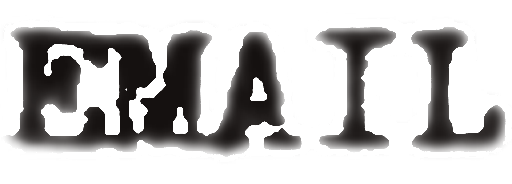
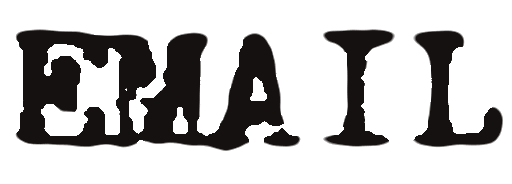
Fixed social link images and added spotify to artist pages

Changed region(s): [[0.0, 0.1359, 0.5938, 0.8696], [0.5938, 0.1359, 1.0, 0.8424], [0.1562, 0.3261, 0.2188, 0.3804]]

diff --git a/assets/js/views.js b/assets/js/views.js
@@ -71,12 +71,13 @@ export function socialRowHTML(items) {
 }
 
 export function artistSocialsHTML(a) {
-  const order = ['site', 'youtube', 'instagram', 'facebook', 'x', 'tiktok'];
+  const order = ['site', 'youtube', 'spotify', 'instagram', 'facebook', 'x', 'tiktok'];
   // "Site", not "Website" — the stamped art reads SITE (as it did on the old
   // site), and the label is what the alt text says.
   const labels = {
     site: 'Site',
     youtube: 'YouTube',
+    spotify: 'Spotify',
     instagram: 'Instagram',
     facebook: 'Facebook',
     x: 'X',

diff --git a/assets/js/config.js b/assets/js/config.js
@@ -193,6 +193,7 @@ export async function hydrateFromRemote() {
       const links = {};
       if (remote.site) links.site = remote.site;
       if (remote.youtube) links.youtube = remote.youtube;
+      if (remote.spotify) links.spotify = remote.spotify;
       if (remote.instagram) links.instagram = remote.instagram;
       if (remote.facebook) links.facebook = remote.facebook;
       if (remote.twitter) links.x = remote.twitter;

diff --git a/tools/bake_typewriter.py b/tools/bake_typewriter.py
@@ -78,11 +78,17 @@ IMAGES = [
 # what the threshold cuts through, so the resulting outline lands on a much
 # finer grid.
 UPSCALE = {
-    # The EMAIL wordmark comes in at the same 46px height as the other social art,
-    # which is only ~4x the size it's drawn at — enough to soften on a retina
-    # screen. It's the one of that set that gets the treatment because it's also
-    # the newest scan; the rest are left alone rather than re-cut.
+    # The whole social set comes in at 46px tall, only ~4x the size it's drawn at
+    # — enough to soften on a retina screen. 4x puts them at 184px, which is also
+    # where the (natively much larger) SPOTIFY scan lands, so the row is built at
+    # one resolution throughout.
     "assets/img/social/email.png": 4,
+    "assets/img/social/youtube.png": 4,
+    "assets/img/social/instagram.png": 4,
+    "assets/img/social/facebook.png": 4,
+    "assets/img/social/tiktok.png": 4,
+    "assets/img/social/site.png": 4,
+    "assets/img/social/x.png": 4,
     "assets/img/icons/light_on.png": 4,
     "assets/img/icons/light_off.png": 4,
     "assets/img/icons/sound_on.png": 4,
@@ -101,6 +107,31 @@ CROP = {
     "assets/img/icons/sound_on.png": (0.85, "centre"),
     "assets/img/icons/sound_off.png": (0.85, "centre"),
     "assets/img/icons/hamburger.png": (0.90, "centre"),
+}
+
+
+# Steepen the ALPHA ramp about its 50% contour (same linear-clamp maths as the
+# grey threshold, applied to the matte instead).
+#
+# The social scans arrived already keyed to transparency, and keyed softly: 50-64%
+# of their pixels sit at a partial alpha, only 2-9% are fully opaque. Because the
+# bake computes `alpha = (1 - t) * a`, that soft matte survives everything the
+# grey threshold does — the ink under it is dark, so `t` is 0 and the result is
+# just the blurry matte, recoloured. Thresholding harder can't help: the edge
+# isn't in the grey channel at all. Steepening the matte is what actually cuts it,
+# and pivoting at 0.5 keeps the 50% contour — so the stroke weight doesn't move.
+#
+# Only the 46px social art needs this. The brand/nav scans are natively 600-1700px
+# and come in at 13-28% soft; home_transparent is 0%. Hardening those would cost
+# the typewriter grain for no gain, so they're left alone.
+ALPHA_SHARPEN = {
+    "assets/img/social/youtube.png": 8.0,
+    "assets/img/social/instagram.png": 8.0,
+    "assets/img/social/facebook.png": 8.0,
+    "assets/img/social/tiktok.png": 8.0,
+    "assets/img/social/site.png": 8.0,
+    "assets/img/social/x.png": 8.0,
+    "assets/img/social/email.png": 8.0,
 }
 
 
@@ -150,6 +181,10 @@ def bake(rel, slope, intercept, ink):
     grey = 0.33 * r + 0.33 * g + 0.33 * b          # feColorMatrix desaturate
     t = np.clip(slope * grey + intercept, 0.0, 1.0)  # feComponentTransfer linear
     alpha = (1.0 - t) * a                            # key white out, keep orig alpha
+
+    sharpen = ALPHA_SHARPEN.get(rel)
+    if sharpen:
+        alpha = np.clip(sharpen * (alpha - 0.5) + 0.5, 0.0, 1.0)
 
     k = DILATE.get(rel)
     if k:
